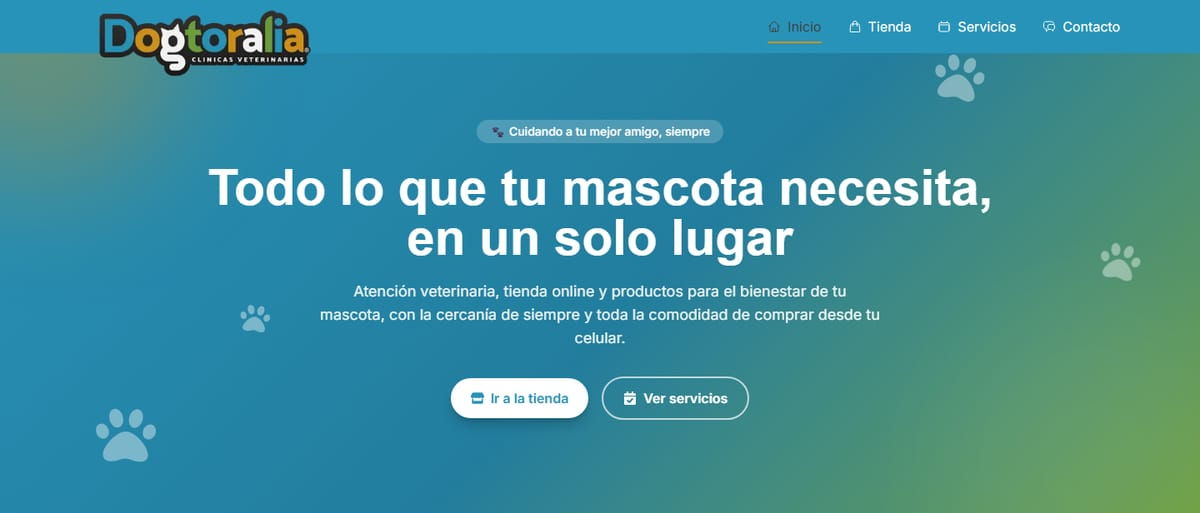
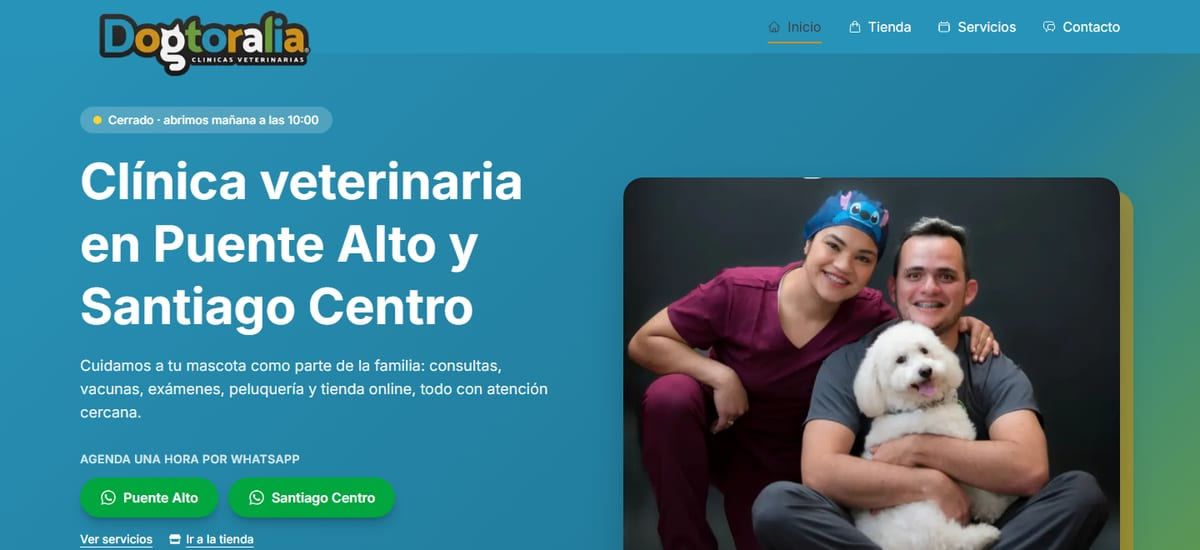
fix: capturas de partners completas y sin recortes
- Nuevas capturas de escritorio (1200x550) de los 4 sitios, sin banners
  de cookies; la de Caroline Magic era una imagen vertical.
- Portadas verticales nuevas para Dogtoralia y Caroline Magic.
- Los marcos usan la proporción real de las capturas (24:11) en la
  home, /partners y los casos de éxito, así ya no se cortan los costados.
- En la home la imagen del caso destacado tiene más ancho.

diff --git a/src/components/FeaturedCase.tsx b/src/components/FeaturedCase.tsx
@@ -12,7 +12,7 @@ export default function FeaturedCase() {
 
   return (
     <section id="caso-de-exito" className="py-24 bg-white dark:bg-slate-950 border-b border-gray-100 dark:border-slate-900">
-      <div className="max-w-7xl mx-auto px-4 sm:px-6 lg:px-8 grid grid-cols-1 lg:grid-cols-2 gap-12 items-center">
+      <div className="max-w-7xl mx-auto px-4 sm:px-6 lg:px-8 grid grid-cols-1 lg:grid-cols-[5fr_7fr] gap-12 items-center">
         <div className="space-y-6">
           <span className="text-xs font-semibold tracking-widest text-brand-accent-dark uppercase bg-brand-accent/10 px-3 py-1 rounded-full">
             Caso de éxito
@@ -56,13 +56,13 @@ export default function FeaturedCase() {
           href={project.url}
           target="_blank"
           rel="noopener noreferrer"
-          className="block relative aspect-[4/3] rounded-3xl overflow-hidden shadow-2xl border border-gray-200/40 dark:border-slate-800"
+          className="block relative aspect-[24/11] rounded-3xl overflow-hidden shadow-2xl border border-gray-200/40 dark:border-slate-800"
         >
           <Image
             src={project.image}
             alt={`Sitio web de ${project.name} desarrollado por Soluciones DyS`}
             fill
-            sizes="(min-width: 1024px) 50vw, 100vw"
+            sizes="(min-width: 1280px) 720px, (min-width: 1024px) 58vw, 100vw"
             className="object-cover object-top hover:scale-105 transition-transform duration-500"
           />
         </a>

diff --git a/src/lib/partners.ts b/src/lib/partners.ts
@@ -54,6 +54,7 @@ export const PARTNER_PROJECTS: PartnerProject[] = [
     summary: "Sitio web real para clínicas veterinarias con tienda online en Puente Alto y Santiago Centro.",
     url: "https://www.dogtoraliavet.cl/home",
     image: "/assets/img/partners/dogtoralia-vet-web.jpg",
+    cover: "/assets/img/partners/dogtoralia-vet.jpg",
     tags: ["React", "Next.js", "TailwindCSS"],
     gradient: "from-[#2793bb] via-[#2e8aa0] to-[#6ea34a]",
     features: ["Tienda Online de Productos", "Servicios Veterinarios", "Contacto por WhatsApp"]
@@ -66,6 +67,7 @@ export const PARTNER_PROJECTS: PartnerProject[] = [
     summary: "Sitio web real de tarot evolutivo, talleres y arte místico con oráculo interactivo.",
     url: "https://www.carolinemagic.cl/",
     image: "/assets/img/partners/caroline-magic-web.jpg",
+    cover: "/assets/img/partners/caroline-magic.jpg",
     tags: ["Next.js", "React", "TailwindCSS", "Framer Motion"],
     gradient: "from-[#7b3f61] via-[#a4487a] to-[#2e1a3d]",
     features: ["Oráculo Interactivo del Día", "Agenda de Lecturas de Tarot", "Talleres y Rituales Grupales"]

diff --git a/src/components/CasosDeExito.tsx b/src/components/CasosDeExito.tsx
@@ -27,7 +27,7 @@ export default function CasosDeExito() {
         {casos.map((caso) => (
           <li key={caso.slug}>
             <article className="h-full bg-white rounded-3xl border border-gray-100 shadow-xs hover:shadow-xl transition-all overflow-hidden flex flex-col">
-              <div className="relative aspect-[16/10] bg-gray-100">
+              <div className="relative aspect-[24/11] bg-gray-100">
                 <Image
                   src={caso.imagen}
                   alt={`Sitio web de ${caso.cliente}`}

diff --git a/src/app/webs/casos/[slug]/page.tsx b/src/app/webs/casos/[slug]/page.tsx
@@ -114,7 +114,7 @@ export default async function CasoPage({ params }: { params: Promise<{ slug: str
           </a>
         </header>
 
-        <div className="relative aspect-[16/9] rounded-3xl overflow-hidden border border-gray-200/60 shadow-xl bg-gray-100">
+        <div className="relative aspect-[24/11] rounded-3xl overflow-hidden border border-gray-200/60 shadow-xl bg-gray-100">
           <Image
             src={caso.imagen}
             alt={`Sitio web de ${caso.cliente} desarrollado por Soluciones DyS`}

diff --git a/src/components/PartnersShowcase.tsx b/src/components/PartnersShowcase.tsx
@@ -22,7 +22,7 @@ function BrowserFrame({ project }: { project: PartnerProject }) {
             <span className="truncate">{new URL(project.url).hostname.replace(/^www\./, "")}</span>
           </div>
         </div>
-        <div className="relative aspect-1200/700 bg-gray-50">
+        <div className="relative aspect-[24/11] bg-gray-50">
           <Image
             src={project.image}
             alt={`Captura del sitio web de ${project.name}`}
